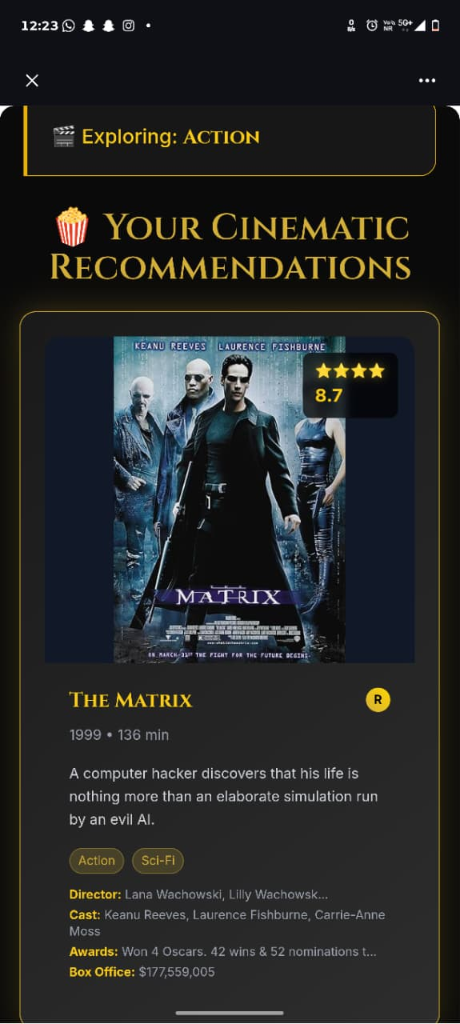
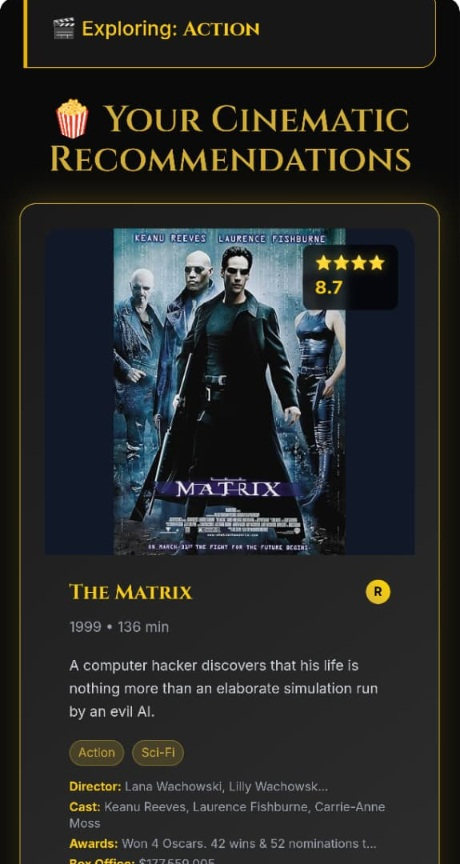
fix(projects): crop and fit project images with ambient backdrop framing

diff --git a/frontend/src/components/ProjectsSection.tsx b/frontend/src/components/ProjectsSection.tsx
@@ -114,14 +114,22 @@ export const ProjectsSection: React.FC<ProjectsSectionProps> = () => {
                   ease: [0.22, 1, 0.36, 1],
                 }}
                 whileHover={{ y: -6 }}
-                className="group relative flex flex-col justify-between p-8 rounded-2xl border border-slate-200/90 dark:border-[#545454]/40 bg-white/70 dark:bg-[#070707]/90 backdrop-blur-xl min-h-[300px] sm:min-h-[360px] transition-all duration-300 hover:border-slate-400 dark:hover:border-[#A6A6A6] shadow-sm dark:shadow-none hover:shadow-xl dark:hover:shadow-[0_15px_40px_rgba(0,0,0,0.8)] overflow-hidden"
+                className="group relative flex flex-col justify-between p-8 rounded-2xl border border-slate-200/90 dark:border-[#545454]/40 bg-white/70 dark:bg-[#070707]/90 backdrop-blur-xl min-h-[320px] sm:min-h-[380px] lg:min-h-[420px] transition-all duration-300 hover:border-slate-400 dark:hover:border-[#A6A6A6] shadow-sm dark:shadow-none hover:shadow-xl dark:hover:shadow-[0_15px_40px_rgba(0,0,0,0.8)] overflow-hidden"
               >
                 {project.image ? (
-                  <div className="absolute inset-0 w-full h-full">
+                  <div className="absolute inset-0 w-full h-full bg-[#080808] flex items-center justify-center overflow-hidden">
+                    {/* Ambient subtle glow backdrop to fill card with matching palette */}
+                    <img
+                      src={project.image}
+                      alt=""
+                      aria-hidden="true"
+                      className="absolute inset-0 w-full h-full object-cover blur-2xl opacity-35 scale-110 pointer-events-none select-none"
+                    />
+                    {/* Perfectly fitted foreground image preserving natural aspect ratio and content */}
                     <img
                       src={project.image}
                       alt={project.title}
-                      className="w-full h-full object-cover object-center group-hover:scale-105 transition-transform duration-500"
+                      className="relative max-h-full max-w-full object-contain p-2 sm:p-4 z-10 group-hover:scale-[1.03] transition-transform duration-500 select-none"
                     />
                   </div>
                 ) : (
